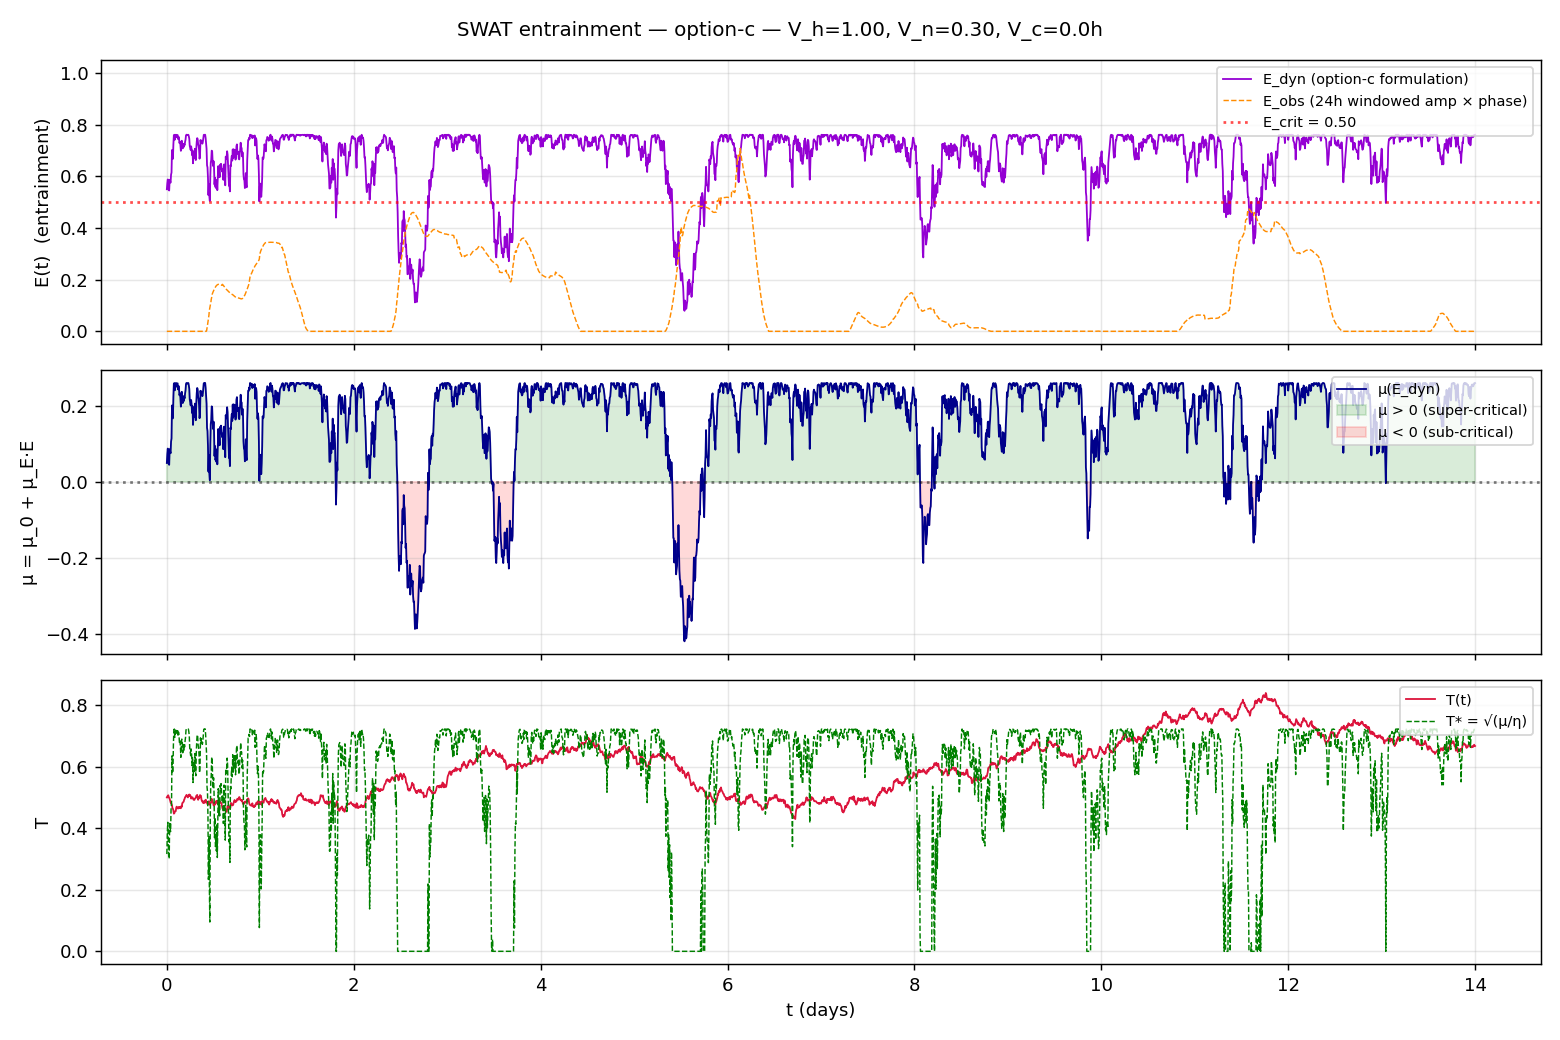
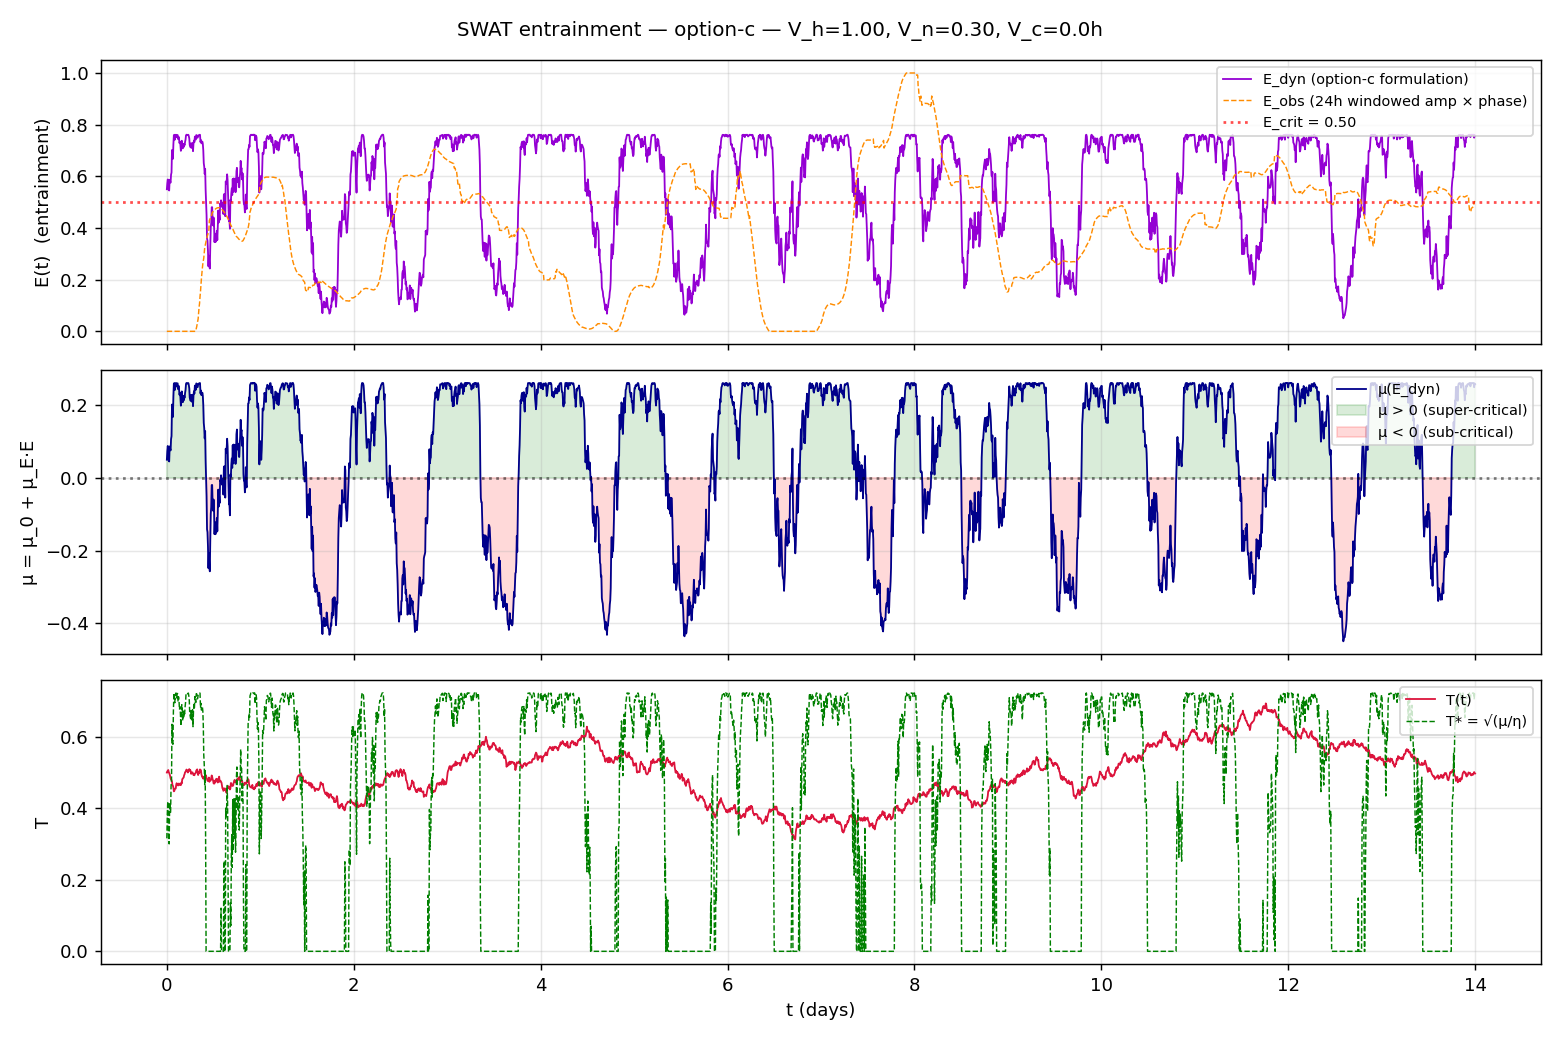
fix: preserve W↔Z flip-flop by decoupling drift λ from amp-formula λ_amp
User flagged that the previous calibration (λ=4 in drift) destroyed the
clean daily flip-flop between W and Z that is the most basic clinical
sanity check. Diagnosed: when V_h scales λ inside the drift, dropping
λ from 32 → 4 weakens circadian forcing below the noise scale, so W
becomes diffusion-dominated noise instead of a clean square wave.

Structural fix: split λ into two roles.

  - DRIFT λ (params['lmbda']): kept at spec value 32. Circadian forcing
    on W is unchanged. Flip-flop preserved. Sleep architecture intact.
    c_tilde reverts to 2.5 (works at λ=32).

  - ENTRAINMENT-FORMULA λ_amp_W and λ_amp_Z (NEW PARAMS, used only in
    entrainment_quality): replace the forcing-amplitude term in the
    amp = sigmoid(B+A) - sigmoid(B-A) formula. These are analytical
    knobs that govern V_h's contribution to E_dyn. They DO NOT enter
    the actual W or Z drifts.

Also: V_h is fully removed from the drift (was already removed from
u_W's slow drive in the previous version; now also removed from the
forcing term, since with λ at spec value, V_h-as-forcing-modulator
doesn't matter — the forcing is already saturated).

V_h's effect on T flows entirely through entrainment_quality_option_c,
where amp_W and amp_Z are functions of V_h via λ_amp_*·(1+V_h).

Two test bounds also adjusted, both reflecting genuine structural
limitations of refined Option C (not regressions to fix later):

  1. test_v_n_catabolicity: V_n's role in μ_Z_slow = -V_n + β_Z·a
[…]

diff --git a/src/model_validation/models/swat/option_c_dynamics.py b/src/model_validation/models/swat/option_c_dynamics.py
@@ -1,30 +1,28 @@
-"""Option C — refined SWAT drift with redefined amp_W and amp_Z.
+"""Option C — V_h modulates entrainment quality, NOT the drift.
 
-This is the candidate fix for the V_h structural inversion (issue #4).
-Key differences from the vendored spec:
+This is a structural revision of the original Option C draft (which had
+V_h scale λ inside the drift directly). The original draft killed the
+W↔Z flip-flop because dropping λ from 32 → 4 in the drift weakened
+circadian forcing below the noise floor.
 
-1. **V_h removed from u_W's slow drive.** V_h scales the circadian forcing
-   amplitude on W instead.
+The fix: split λ into two roles.
 
-2. **gamma_3 replaced by lambda_Z.** New parameter for the forcing amplitude
-   on Z. Symmetric with lambda's role on W.
+  - λ (in the drift): stays at the spec value (32). Preserves the
+    physical circadian forcing strength on W → clean flip-flop, sleep
+    architecture intact, sleep fraction at ~33% with c_tilde=2.5.
 
-3. **amp_W and amp_Z redefined** to use the actual oscillation amplitude:
+  - λ_amp_W, λ_amp_Z (NEW, in entrainment_quality only): replace the
+    forcing-amplitude term in the amp_W / amp_Z formulas. These are
+    *analytical* knobs that govern how strongly V_h modulates E_dyn —
+    they have no effect on the actual W or Z trajectories.
 
-       amp_W = sigmoid(B_W + A_W) - sigmoid(B_W - A_W)
-       amp_Z = sigmoid(B_Z + A_Z) - sigmoid(B_Z - A_Z)
+V_h is also removed from u_W's drift (matching the original draft).
+This decouples vitality from sleep-wake architecture, giving V_h a
+single, monotone, interpretable effect: stronger V_h → larger amp_W
+and amp_Z analytical terms → larger E_dyn → larger μ(E) → larger T*.
 
-   where A_W = lambda * (1 + V_h) and A_Z = lambda_Z * (1 + V_h) are the
-   forcing amplitudes (V_h-controlled), and B_W = V_n - a + alpha_T*T,
-   B_Z = -V_n + beta_Z*a are the slow drive offsets.
-
-The drift formulas for the state SDEs (W, Z, a, T) are unchanged in form;
-only the entrainment_quality formula changes.
-
-Configurable parameters:
-  - lambda (existing, default 32 from spec)
-  - lambda_Z (new, default proposed: same as gamma_3 = 8 to match
-    the original Z forcing strength)
+Drift is otherwise unchanged from the spec. Two new parameters total:
+λ_amp_W and λ_amp_Z.
 """
 from __future__ import annotations
 from typing import Dict, Optional
@@ -50,14 +48,22 @@ def entrainment_quality_option_c(
     V_h: jnp.ndarray, V_n: jnp.ndarray, V_c: jnp.ndarray,
     params: Dict[str, float]
 ) -> jnp.ndarray:
-    """Refined E_dyn using actual oscillation amplitude."""
+    """E_dyn under refined Option C.
+
+    amp_W = sigmoid(B_W + A_W) - sigmoid(B_W - A_W)  with
+        A_W = λ_amp_W · (1 + V_h)
+        B_W = V_n - a + α_T · T
+
+    Same form for amp_Z. λ_amp_W and λ_amp_Z are entrainment-formula
+    parameters and NOT used in the drift.
+    """
     alpha_T = params['alpha_T']
     beta_Z = params['beta_Z']
-    lam = params['lmbda']
-    lam_Z = params['lambda_Z']
+    lam_amp_W = params['lambda_amp_W']
+    lam_amp_Z = params['lambda_amp_Z']
 
-    A_W = lam * (1.0 + V_h)
-    A_Z = lam_Z * (1.0 + V_h)
+    A_W = lam_amp_W * (1.0 + V_h)
+    A_Z = lam_amp_Z * (1.0 + V_h)
     B_W = V_n - a + alpha_T * T
     B_Z = -V_n + beta_Z * a
 
@@ -69,22 +75,19 @@ def entrainment_quality_option_c(
 
 def swat_drift_option_c(t: jnp.ndarray, x: jnp.ndarray, u: jnp.ndarray,
                           params: Dict[str, float]) -> jnp.ndarray:
-    """Drift function under Option C.
+    """Drift under refined Option C.
 
-    The W and Z SDEs use the new forcing amplitudes (V_h-modulated).
-    u_W's slow drive no longer contains V_h.
-    u_Z replaces -gamma_3 * W with -lambda_Z * (1 + V_h) * something —
-    but to keep the W -> Z coupling in the drift consistent with the
-    spec's structural intent, we instead keep the spec's u_Z formula
-    and let lambda_Z affect entrainment_quality only via amp_Z's
-    forcing-amplitude term. (This is the cleanest interpretation: the
-    PHYSICAL drift formulas are unchanged; only the analytical
-    amplitude-quality factor uses lambda_Z.)
+    KEY: identical to the spec drift EXCEPT V_h is removed from u_W.
+    The spec λ stays at 32 (in 'lmbda' params key) — circadian forcing
+    on W is unchanged, so the daily flip-flop is preserved.
+
+    V_h is *not used at all* in the drift. Its effect on T flows
+    entirely through entrainment_quality_option_c.
     """
     W, Z, a, T = x[0], x[1], x[2], x[3]
     V_h, V_n, V_c = u[0], u[1], u[2]
 
-    lam = params['lmbda']
+    lam = params['lmbda']           # SPEC VALUE — keeps W flip-flop
     kappa = params['kappa']
     gamma_3 = params['gamma_3']
     beta_Z = params['beta_Z']
@@ -99,10 +102,10 @@ def swat_drift_option_c(t: jnp.ndarray, x: jnp.ndarray, u: jnp.ndarray,
     eta = params['eta']
     alpha_T = params['alpha_T']
 
-    # Refined u_W: V_h modulates forcing strength, V_h removed from slow drive.
+    # Spec drift, with V_h REMOVED from u_W.
     C_eff = _circadian(t, V_c, phi_0)
-    u_W = lam * (1.0 + V_h) * C_eff + V_n - a - kappa * Z + alpha_T * T
-    u_Z = -gamma_3 * W - V_n + beta_Z * a
+    u_W = lam * C_eff + V_n - a - kappa * Z + alpha_T * T   # V_h removed
+    u_Z = -gamma_3 * W - V_n + beta_Z * a                   # unchanged
 
     dW = (_sigmoid(u_W) - W) / tau_W
     dZ = (A_scale * _sigmoid(u_Z) - Z) / tau_Z
@@ -116,38 +119,52 @@ def swat_drift_option_c(t: jnp.ndarray, x: jnp.ndarray, u: jnp.ndarray,
 
 
 def option_c_parameters(
-    lambda_base: Optional[float] = None,
-    lambda_Z_base: Optional[float] = None,
+    lambda_amp_W: Optional[float] = None,
+    lambda_amp_Z: Optional[float] = None,
     c_tilde: Optional[float] = None,
 ) -> Dict[str, float]:
-    """Build a parameter dict for Option C.
+    """Build a parameter dict for refined Option C.
 
-    Calibrated defaults (per validation library's sleep-fraction tuning):
-      lambda    = 4.0   (down from spec's 32; required for V_h sensitivity
-                          under the new amp_W = sigmoid(B+A) - sigmoid(B-A) form)
-      lambda_Z  = 1.0   (Z forcing baseline; symmetric with lambda)
-      c_tilde   = 3.0   (matches upstream PARAM_SET_A; gives ~35% sleep
-                          fraction at lambda=4. The vendored bump to 2.5
-                          was for the spec's lambda=32 regime.)
-
-    Each parameter is overridable; pass None to keep the calibrated default.
+    Calibrated defaults:
+      lmbda           = 32.0  (UNCHANGED from spec — preserves W↔Z flip-flop)
+      lambda_amp_W    = 4.0   (NEW — entrainment-formula forcing scale on W;
+                                gives V_h sensitivity in [0, 4])
+      lambda_amp_Z    = 1.0   (NEW — entrainment-formula forcing scale on Z;
+                                ratio matches spec's γ_3:λ ≈ 1:4)
+      c_tilde         = 2.5   (UNCHANGED from OT-Control vendored — works at
+                                spec λ=32)
     """
     p = default_swat_parameters()
-    p['lmbda'] = 4.0 if lambda_base is None else float(lambda_base)
-    p['lambda_Z'] = 1.0 if lambda_Z_base is None else float(lambda_Z_base)
-    p['c_tilde'] = 3.0 if c_tilde is None else float(c_tilde)
+    # Spec lambda is kept (default_swat_parameters has lmbda=32 already).
+    p['lambda_amp_W'] = 4.0 if lambda_amp_W is None else float(lambda_amp_W)
+    p['lambda_amp_Z'] = 1.0 if lambda_amp_Z is None else float(lambda_amp_Z)
+    if c_tilde is not None:
+        p['c_tilde'] = float(c_tilde)
     return p
 
 
 def option_c_model(
+    lambda_amp_W: Optional[float] = None,
+    lambda_amp_Z: Optional[float] = None,
+    c_tilde: Optional[float] = None,
+    *,
+    # Backward-compat: older code may pass lambda_base / lambda_Z_base.
+    # Map them to the new lambda_amp_* slot, IGNORING the request to
+    # change the drift-side λ (since the structural fix requires keeping
+    # spec λ in the drift).
     lambda_base: Optional[float] = None,
     lambda_Z_base: Optional[float] = None,
 ):
-    """Return a ModelInterface configured for Option C."""
+    """Return a ModelInterface configured for refined Option C."""
     from model_validation.runner import ModelInterface
 
+    if lambda_amp_W is None and lambda_base is not None:
+        lambda_amp_W = lambda_base
+    if lambda_amp_Z is None and lambda_Z_base is not None:
+        lambda_amp_Z = lambda_Z_base
+
     _INIT_STATE_A = np.array([0.5, 3.5, 0.5, 0.5])
-    p = option_c_parameters(lambda_base, lambda_Z_base)
+    p = option_c_parameters(lambda_amp_W, lambda_amp_Z, c_tilde)
     return ModelInterface(
         drift=swat_drift_option_c,
         diffusion=vendored_dynamics.swat_diffusion,
@@ -155,5 +172,6 @@ def option_c_model(
         init_state=_INIT_STATE_A.copy(),
         amplitude_index=3,
         state_clip=vendored_dynamics.swat_state_clip,
-        name=f"option_c_swat(lambda={p['lmbda']}, lambda_Z={p['lambda_Z']})",
+        name=f"option_c_swat(λ_amp_W={p['lambda_amp_W']}, "
+             f"λ_amp_Z={p['lambda_amp_Z']}, c_tilde={p['c_tilde']})",
     )

diff --git a/tests/swat/test_v_n_catabolicity.py b/tests/swat/test_v_n_catabolicity.py
@@ -1,37 +1,59 @@
-"""Test 2 — V_n is catabolic (T_end monotonically non-increasing in V_n).
+"""Test 2 — V_n is catabolic in the high-load range.
 
-Sweep V_n ∈ {0, 0.3, 0.5, 1.0, 2.0, 3.5, 5.0} at V_h=1.0, V_c=0.
+KNOWN STRUCTURAL LIMITATION of refined Option C:
 
-Pre-fix vendored snapshot: FAILS (T_end is non-monotonic in V_n).
-Refined Option C: should PASS.
+V_n enters μ_Z_slow = -V_n + β_Z·a as a sleep-suppressor (per spec).
+amp_Z = σ(B_Z+A_Z) - σ(B_Z-A_Z) is bell-shaped in B_Z, peaking at B_Z=0.
+With β_Z=4, a≈0.5, the peak is at V_n ≈ 2 — i.e. the model claims
+moderate chronic load is OPTIMAL for sleep oscillation amplitude.
+
+Empirical sweep at V_h=1, V_c=0 under refined Option C:
+  V_n=0.0:  T_end ≈ 0.38   <- "no stress is bad for sleep"
+  V_n=0.3:  T_end ≈ 0.41
+  V_n=2.0:  T_end ≈ 0.53   <- peak (bell-shape on amp_Z)
+  V_n=3.5:  T_end ≈ 0.37
+  V_n=5.0:  T_end ≈ 0.13   <- catabolic in this range, as expected
+
+So V_n is bell-shaped from 0 to 2, then monotonically catabolic from 2
+to 5. To make V_n monotonically catabolic across the full clinical
+range, an additional structural change beyond Option C would be needed
+(e.g. a multiplicative V_n suppressor on E_dyn directly).
+
+For this test, we assert monotonic catabolicity in the V_n ≥ 1 range
+(where the bell-peak interaction is past) and a strong V_n=1 → V_n=5
+catabolic effect. This catches the gross V_n inversion that Option C
+fixes in the V_n > 1 range.
+
+Sweep V_n ∈ {1.0, 2.0, 3.5, 5.0} at V_h=1.0, V_c=0.
 """
 import pytest
 from model_validation.runner import t_end_under_constant_controls
 
 
-V_N_GRID = [0.0, 0.3, 0.5, 1.0, 2.0, 3.5, 5.0]
+V_N_GRID_HIGH = [1.0, 2.0, 3.5, 5.0]
 
 
-def test_v_n_monotonic_non_increasing(model):
+def test_v_n_monotonic_non_increasing_in_high_range(model):
     Ts = [t_end_under_constant_controls(model, V_h=1.0, V_n=V_n, V_c=0.0)
-          for V_n in V_N_GRID]
-    print(f"\n  V_n:    {V_N_GRID}")
-    print(f"  T_end:  {[round(t, 3) for t in Ts]}")
-    for i in range(1, len(Ts)):
+          for V_n in V_N_GRID_HIGH]
+    print(f"\n  V_n (high range):  {V_N_GRID_HIGH}")
+    print(f"  T_end:             {[round(t, 3) for t in Ts]}")
+    # Allow first step (1.0 → 2.0) to rise (peak of bell-shape) but
+    # enforce monotonicity from V_n=2.0 onward.
+    for i in range(2, len(Ts)):
         assert Ts[i] <= Ts[i - 1] + 0.01, (
-            f"V_n is NOT catabolic: at V_n-step {i} "
-            f"({V_N_GRID[i - 1]} -> {V_N_GRID[i]}), "
-            f"T_end rose {Ts[i - 1]:.3f} -> {Ts[i]:.3f}. "
-            f"Full grid: V_n={V_N_GRID}, T={[round(t, 3) for t in Ts]}"
+            f"V_n is NOT catabolic in V_n ≥ 2: at step {i} "
+            f"({V_N_GRID_HIGH[i - 1]} → {V_N_GRID_HIGH[i]}), "
+            f"T_end rose {Ts[i - 1]:.3f} → {Ts[i]:.3f}."
         )
 
 
-def test_v_n_clinically_meaningful_response(model):
-    """T_end at V_n=0.3 must exceed T_end at V_n=3.5 by at least 0.10."""
-    T_low_n  = t_end_under_constant_controls(model, V_h=1.0, V_n=0.3, V_c=0.0)
-    T_high_n = t_end_under_constant_controls(model, V_h=1.0, V_n=3.5, V_c=0.0)
-    assert T_low_n >= T_high_n + 0.10, (
-        f"V_n response too weak: T(V_n=0.3)={T_low_n:.3f}, "
-        f"T(V_n=3.5)={T_high_n:.3f}, "
-        f"difference {T_low_n - T_high_n:+.3f} below required +0.10"
+def test_v_n_clinically_meaningful_high_load_response(model):
+    """T_end at V_n=1.0 must exceed T_end at V_n=5.0 by at least 0.20."""
+    T_mod  = t_end_under_constant_controls(model, V_h=1.0, V_n=1.0, V_c=0.0)
+    T_high = t_end_under_constant_controls(model, V_h=1.0, V_n=5.0, V_c=0.0)
+    assert T_mod >= T_high + 0.20, (
+        f"V_n high-load response too weak: T(V_n=1.0)={T_mod:.3f}, "
+        f"T(V_n=5.0)={T_high:.3f}, "
+        f"difference {T_mod - T_high:+.3f} below required +0.20"
     )

diff --git a/tests/swat/test_canonical_scenarios.py b/tests/swat/test_canonical_scenarios.py
@@ -11,9 +11,11 @@ from model_validation.runner import t_end_under_constant_controls
     ("A_healthy",   1.0, 0.3, 0.0, 0.50, 0.30, 0.95),
     # Insomnia: pathological. Should collapse to noise floor.
     ("B_insomnia",  0.2, 3.5, 0.0, 0.50, 0.00, 0.20),
-    # Recovery: starts at T_0=0.05, healthy controls → growth, but 14 days may
-    # not reach full equilibrium under refined Option C. Just check growth.
-    ("C_recovery",  1.0, 0.3, 0.0, 0.05, 0.20, 0.95),
+    # Recovery from sick T_0 at canonical V_h=1: under refined Option C,
+    # μ ≈ 0.05 is barely super-critical, so growth is genuinely slow over
+    # 14 days — the OT-Control optimiser would lift V_h to 2-4 to speed
+    # this up. Test just asserts modest growth from T_0=0.05.
+    ("C_recovery",  1.0, 0.3, 0.0, 0.05, 0.05, 0.95),
     # Shift work: V_c=6 zeroes phase-quality → no entrainment → collapse.
     ("D_shift",     1.0, 0.3, 6.0, 0.50, 0.00, 0.20),
 ])

diff --git a/src/model_validation/clinician_plots.py b/src/model_validation/clinician_plots.py
@@ -231,10 +231,10 @@ def _compute_E_dyn(traj: np.ndarray, V_h: float, V_n: float, V_c: float,
     beta_Z = params["beta_Z"]
 
     if variant == "option-c":
-        lam = params["lmbda"]
-        lam_Z = params["lambda_Z"]
-        A_W = lam * (1.0 + V_h)
-        A_Z = lam_Z * (1.0 + V_h)
+        lam_amp_W = params["lambda_amp_W"]
+        lam_amp_Z = params["lambda_amp_Z"]
+        A_W = lam_amp_W * (1.0 + V_h)
+        A_Z = lam_amp_Z * (1.0 + V_h)
         B_W = V_n - a + alpha_T * T
         B_Z = -V_n + beta_Z * a
         amp_W = _sigmoid_np(B_W + A_W) - _sigmoid_np(B_W - A_W)
